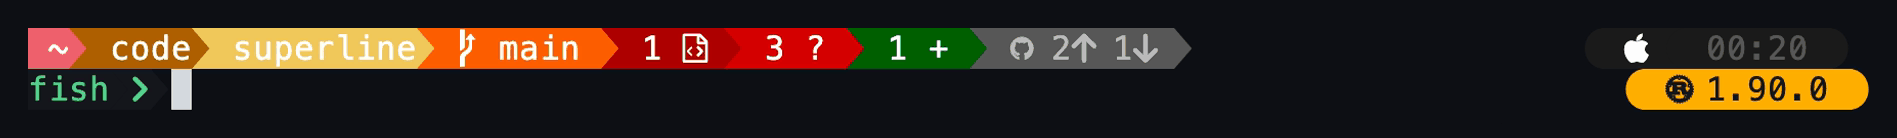
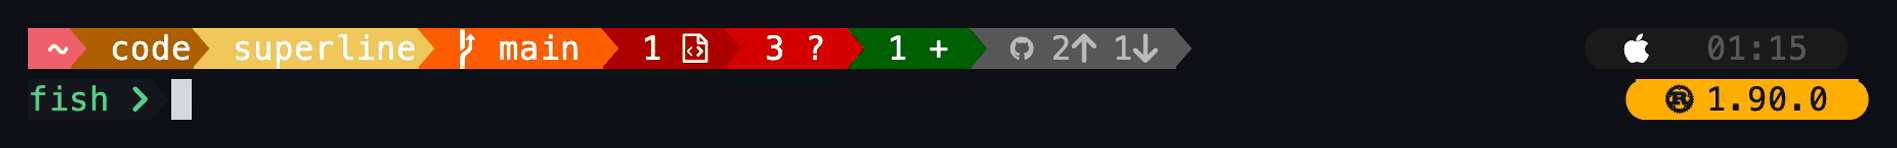
docs: space out stacked rows in the website screenshots (#139)

diff --git a/site/index.html b/site/index.html
@@ -51,7 +51,7 @@
       </div>
       <figure class="term term-hero">
         <div class="term-bar"><span></span><span></span><span></span><em>fish &mdash; ~/code/superline</em></div>
-        <img src="img/hero.png" width="1368" height="170" alt="superline's default two-row prompt: path, git branch with modified, untracked and staged counts, an open pull request with passing checks, Claude and Codex usage sparklines, and the pinned Rust toolchain on the right.">
+        <img src="img/hero.png" width="1368" height="200" alt="superline's default two-row prompt: path, git branch with modified, untracked and staged counts, an open pull request with passing checks, Claude and Codex usage sparklines, and the pinned Rust toolchain on the right.">
       </figure>
       <p class="caption">The default config, straight after <code>superline install fish</code>.</p>
     </section>
@@ -78,7 +78,7 @@
             fsmonitor) and in-process gitoxide based on the size of the index.
           </p>
         </div>
-        <figure class="term"><img src="img/git.png" width="784" height="89" loading="lazy" alt="Three prompts in a repo: a dirty main branch with one modified, two untracked and one staged file, two commits ahead and one behind; the same branch clean after git stash; then a detached HEAD shown as 13aa74d -> main."></figure>
+        <figure class="term"><img src="img/git.png" width="784" height="99" loading="lazy" alt="Three prompts in a repo: a dirty main branch with one modified, two untracked and one staged file, two commits ahead and one behind; the same branch clean after git stash; then a detached HEAD shown as 13aa74d -> main."></figure>
       </article>
 
       <article class="feature">
@@ -91,7 +91,7 @@
           </p>
           <p class="note">The lookup runs in the background, so switching branches is never slowed down by the network.</p>
         </div>
-        <figure class="term"><img src="img/pr.png" width="866" height="110" loading="lazy" alt="Four branches in turn: a grey draft PR #151, an open PR #148 with a yellow pending dot, an open PR #147 with a red failing dot, and a purple merged PR #139."></figure>
+        <figure class="term"><img src="img/pr.png" width="866" height="125" loading="lazy" alt="Four branches in turn: a grey draft PR #151, an open PR #148 with a yellow pending dot, an open PR #147 with a red failing dot, and a purple merged PR #139."></figure>
       </article>
 
       <article class="feature split">
@@ -103,7 +103,7 @@
             their own icon. Each module shows its logo when you're in a project and the version when one is pinned.
           </p>
         </div>
-        <figure class="term"><img src="img/languages.png" width="692" height="130" loading="lazy" alt="Moving between projects: a Python project, the same project with its .venv active on Python 3.13.7, a Node project pinned to 22.19.0, and a Rust project whose 1.90.0 toolchain comes from mise."></figure>
+        <figure class="term"><img src="img/languages.png" width="692" height="150" loading="lazy" alt="Moving between projects: a Python project, the same project with its .venv active on Python 3.13.7, a Node project pinned to 22.19.0, and a Rust project whose 1.90.0 toolchain comes from mise."></figure>
       </article>
 
       <article class="feature split">
@@ -114,7 +114,7 @@
             prompt red with its exit code&mdash;without clobbering the output above it.
           </p>
         </div>
-        <figure class="term"><img src="img/status.png" width="467" height="131" loading="lazy" alt="A 2.41 second duration after sleep 2.4, a gear icon with 1 after starting a background job, and a red exit code 1 after a failed cat."></figure>
+        <figure class="term"><img src="img/status.png" width="467" height="151" loading="lazy" alt="A 2.41 second duration after sleep 2.4, a gear icon with 1 after starting a background job, and a red exit code 1 after a failed cat."></figure>
       </article>
 
       <article class="feature">
@@ -126,7 +126,7 @@
             threshold and the whole widget changes colour before you hit a limit.
           </p>
         </div>
-        <figure class="term"><img src="img/usage.png" width="835" height="151" loading="lazy" alt="Claude and Codex usage in each display style: percentage, bar, capped bar, block and sparkline."></figure>
+        <figure class="term"><img src="img/usage.png" width="835" height="176" loading="lazy" alt="Claude and Codex usage in each display style: percentage, bar, capped bar, block and sparkline."></figure>
       </article>
 
       <article class="feature">
@@ -152,7 +152,7 @@
             in a row to split it into blocks.
           </p>
         </div>
-        <figure class="term"><img src="img/separators.png" width="408" height="110" loading="lazy" alt="The same path drawn with chevron, round and none separators."></figure>
+        <figure class="term"><img src="img/separators.png" width="408" height="125" loading="lazy" alt="The same path drawn with chevron, round and none separators."></figure>
       </article>
 
       <article class="feature">
@@ -163,7 +163,7 @@
             time, and your own text&mdash;each one cheap enough to leave on.
           </p>
         </div>
-        <figure class="term"><img src="img/widgets.png" width="926" height="110" loading="lazy" alt="A two-row prompt with the OS icon, custom text, the path, memory and swap usage and the time on the right, and a count of two background jobs."></figure>
+        <figure class="term"><img src="img/widgets.png" width="926" height="125" loading="lazy" alt="A two-row prompt with the OS icon, custom text, the path, memory and swap usage and the time on the right, and a count of two background jobs."></figure>
       </article>
     </section>
 

diff --git a/site/config.html b/site/config.html
@@ -114,7 +114,7 @@
         <div class="examples">
           <div class="example" data-example="rows/two-rows">
   <div class="ex-label">Two rows, both sides</div>
-  <figure class="term shot"><img src="img/config/rows-two-rows.png" width="948" height="69" loading="lazy" alt="The rows example: Two rows, both sides."></figure>
+  <figure class="term shot"><img src="img/config/rows-two-rows.png" width="948" height="74" loading="lazy" alt="The rows example: Two rows, both sides."></figure>
   <pre class="json"><code>{
   <span class="k">"theme"</span>: <span class="s">"rainbow"</span>,
   <span class="k">"rows"</span>: [
@@ -352,7 +352,7 @@
         <div class="examples">
           <div class="example" data-example="cmd/default">
   <div class="ex-label">After a success, then a failure</div>
-  <figure class="term shot"><img src="img/config/cmd-default.png" width="99" height="86" loading="lazy" alt="The cmd example: After a success, then a failure."></figure>
+  <figure class="term shot"><img src="img/config/cmd-default.png" width="99" height="96" loading="lazy" alt="The cmd example: After a success, then a failure."></figure>
   <pre class="json"><code><span class="s">"cmd"</span></code></pre>
 </div><!-- /example -->
         </div>
@@ -374,7 +374,7 @@
         <div class="examples">
           <div class="example" data-example="last_cmd_duration/default">
   <div class="ex-label">min_run_time: 500</div>
-  <figure class="term shot"><img src="img/config/last_cmd_duration-default.png" width="138" height="86" loading="lazy" alt="The last_cmd_duration example: min_run_time: 500."></figure>
+  <figure class="term shot"><img src="img/config/last_cmd_duration-default.png" width="138" height="96" loading="lazy" alt="The last_cmd_duration example: min_run_time: 500."></figure>
   <pre class="json"><code>{
   <span class="k">"left"</span>: [
     { <span class="k">"last_cmd_duration"</span>: { <span class="k">"min_run_time"</span>: <span class="n">500</span> } },
@@ -414,7 +414,7 @@
         <div class="examples">
           <div class="example" data-example="jobs/default">
   <div class="ex-label">With two background jobs</div>
-  <figure class="term shot"><img src="img/config/jobs-default.png" width="211" height="86" loading="lazy" alt="The jobs example: With two background jobs."></figure>
+  <figure class="term shot"><img src="img/config/jobs-default.png" width="211" height="96" loading="lazy" alt="The jobs example: With two background jobs."></figure>
   <pre class="json"><code>{ <span class="k">"left"</span>: [<span class="s">"jobs"</span>, <span class="s">"cmd"</span>] }</code></pre>
 </div><!-- /example -->
         </div>

diff --git a/scripts/site-screenshots/trim.py b/scripts/site-screenshots/trim.py
@@ -1,27 +1,89 @@
 """Crop the unused terminal rows (and columns) off a VHS screenshot, keeping
-the tape's padding as a uniform margin, and reduce it to a 256-colour
-palette, which a flat terminal render survives without visible loss."""
+the tape's padding as a uniform margin, open a gap between terminal rows so
+stacked prompts do not run together, and reduce it to a 256-colour palette,
+which a flat terminal render survives without visible loss."""
 
 import sys
 
 from PIL import Image, ImageChops
 
 MARGIN = 28
+ROW_GAP = 10
+# VHS scales its screenshots, so the row pitch and the first row's offset vary
+# between scenes and are found per image. Most scenes have rows every 41px from
+# y=32, which wins when the image has too few edges to tell.
+DEFAULT = (41, 32)
+PITCHES = [p / 20 for p in range(39 * 20, 43 * 20)]
+# Only long horizontal edges, such as the top and bottom of a segment, count
+# towards a row boundary; glyph strokes are much shorter.
+EDGE = 5
+EDGE_RUN = 48
+# Scaling and the video encoder blur each row's edge a pixel or two into its
+# neighbour, which would show up as a thin line beside every gap. Those pixel
+# rows are repainted from the row's own content just inside them.
+SMEAR = 2
+
+
+def edge_profile(image):
+    gray = image.convert("L")
+    width, height = gray.size
+    data = gray.tobytes()
+    profile = [0] * height
+    for y in range(1, height):
+        above = data[(y - 1) * width : y * width]
+        row = data[y * width : (y + 1) * width]
+        run = total = 0
+        for a, b in zip(above, row):
+            if abs(a - b) > EDGE:
+                run += 1
+            else:
+                if run >= EDGE_RUN:
+                    total += run
+                run = 0
+        profile[y] = total + (run if run >= EDGE_RUN else 0)
+    return profile
+
+
+def row_cuts(image, top, bottom):
+    """Pixel rows inside (top, bottom) where one terminal row meets the next."""
+    profile = edge_profile(image)
+    candidates = [DEFAULT] + [(p, s / 4) for p in PITCHES for s in range(int(p * 4))]
+    best = (-1, None, None)
+    for pitch, offset in candidates:
+        lines = range(int((top - offset) // pitch), int((bottom - offset) // pitch) + 2)
+        ys = (round(offset + k * pitch) for k in lines)
+        score = sum(profile[y] for y in ys if 0 <= y < len(profile))
+        if score > best[0]:
+            best = (score, pitch, offset)
+    _, pitch, offset = best
+    ys = (round(offset + k * pitch) for k in range(int(bottom // pitch) + 2))
+    return [y for y in ys if top + pitch / 2 < y < bottom - pitch / 2]
+
 
 for path in sys.argv[1:]:
     image = Image.open(path).convert("RGB")
-    background = Image.new("RGB", image.size, image.getpixel((1, 1)))
+    fill = image.getpixel((1, 1))
+    background = Image.new("RGB", image.size, fill)
     # Ignore near-background noise such as xterm.js's faint row highlights.
     diff = ImageChops.difference(image, background).convert("L")
     box = diff.point(lambda value: 255 if value > 24 else 0).getbbox()
     if box is None:
         continue
     left, top, right, bottom = box
-    image.crop(
-        (
-            max(left - MARGIN, 0),
-            max(top - MARGIN, 0),
-            min(right + MARGIN, image.width),
-            min(bottom + MARGIN, image.height),
-        )
-    ).quantize(256, dither=Image.Dither.NONE).save(path, optimize=True)
+    left, right = max(left - MARGIN, 0), min(right + MARGIN, image.width)
+    cuts = row_cuts(image, top, bottom)
+    for cut in cuts:
+        above = image.crop((left, cut - SMEAR - 1, right, cut - SMEAR))
+        below = image.crop((left, cut + SMEAR, right, cut + SMEAR + 1))
+        for i in range(SMEAR):
+            image.paste(above, (left, cut - 1 - i))
+            image.paste(below, (left, cut + i))
+    edges = [max(top - MARGIN, 0), *cuts, min(bottom + MARGIN, image.height)]
+    strips = [image.crop((left, a, right, b)) for a, b in zip(edges, edges[1:])]
+    height = sum(strip.height for strip in strips) + ROW_GAP * len(cuts)
+    out = Image.new("RGB", (right - left, height), fill)
+    y = 0
+    for strip in strips:
+        out.paste(strip, (0, y))
+        y += strip.height + ROW_GAP
+    out.quantize(256, dither=Image.Dither.NONE).save(path, optimize=True)

diff --git a/docs/terminal-snapshots.md b/docs/terminal-snapshots.md
@@ -190,7 +190,10 @@ after editing the file, since no screenshots are involved.
 Besides the dependencies above it needs `fish`, `jq`, `uv`, and
 [Symbols Nerd Font Mono](https://github.com/ryanoasis/nerd-fonts/releases/tag/v3.5.1)
 (`NerdFontsSymbolsOnly.zip`) 3.4 or newer, which supplies the Claude and Codex
-glyphs when the installed Meslo predates them. The script also updates the
+glyphs when the installed Meslo predates them. `trim.py` crops each capture
+and opens a 10px gap between terminal rows, so stacked prompts do not run
+together; it finds the row boundaries from the long horizontal edges of the
+segments, since VHS scales its screenshots. The script also updates the
 image sizes on both pages. Commit the regenerated PNGs; the `Website`
 workflow publishes `site/` to GitHub Pages on every push to `main` that
 touches it.
